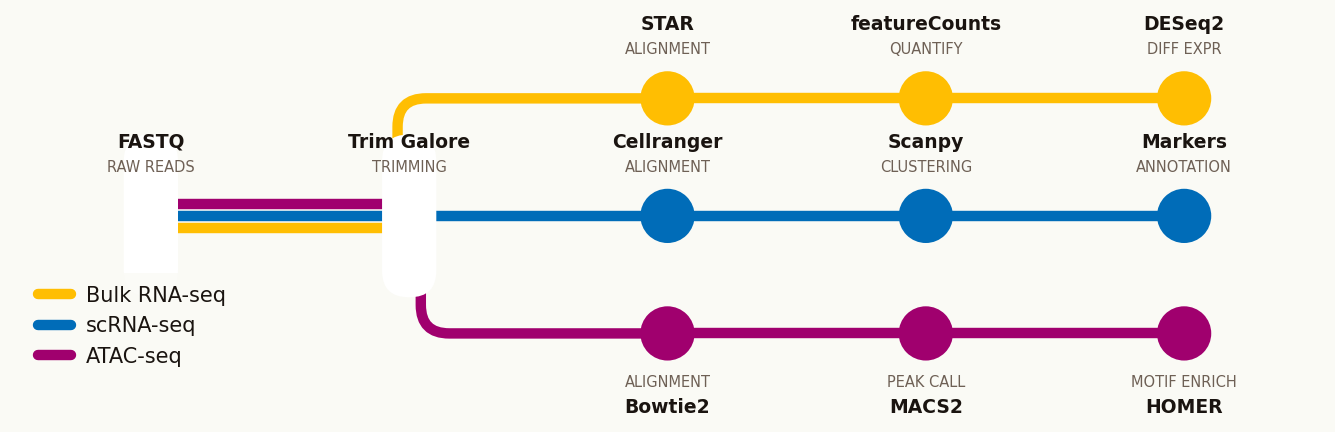
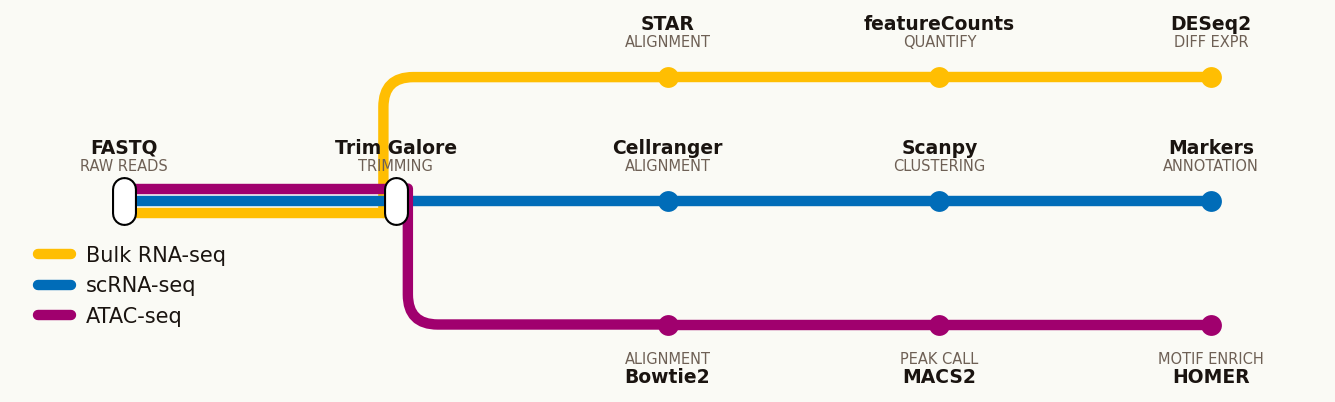
Update README and all graphics; remove Tokyo and Hong Kong sections
- Remove Tokyo and Hong Kong theme entries from README
- Re-render all theme and layout images with smaller stations and tighter labels

diff --git a/README.md b/README.md
@@ -142,22 +142,6 @@ d.line("ATAC-seq",     c3, [...])
 
 ---
 
-**`"tokyo"`** — Tokyo Metro + Toei. White background, dark navy labels, vivid high-contrast colours (Ginza orange, Marunouchi red, Tozai cyan).
-
-<p align="center"><img src="graphics/theme_tokyo.png" width="100%"/></p>
-
-```python
-from metroplot.themes import PALETTES
-
-d = Diagram(theme="tokyo", line_width=5, corner_radius=0.20, legend_loc="lower left")
-c1, c2, c3 = PALETTES["tokyo"][:3]    # Ginza orange · Marunouchi red · Tozai cyan
-d.line("Bulk RNA-seq", c1, [...])
-d.line("scRNA-seq",    c2, [...])
-d.line("ATAC-seq",     c3, [...])
-```
-
----
-
 **`"nyc"`** — NYC Subway (MTA). White background, pure black labels, bold primaries with maximum contrast. Minimal corner rounding matches the map's sharp geometry.
 
 <p align="center"><img src="graphics/theme_nyc.png" width="100%"/></p>
@@ -199,22 +183,6 @@ from metroplot.themes import PALETTES
 
 d = Diagram(theme="berlin", line_width=5, corner_radius=0.18, legend_loc="lower left")
 c1, c2, c3 = PALETTES["berlin"][:3]   # U2 red · U7 blue · U6 purple
-d.line("Bulk RNA-seq", c1, [...])
-d.line("scRNA-seq",    c2, [...])
-d.line("ATAC-seq",     c3, [...])
-```
-
----
-
-**`"hongkong"`** — Hong Kong MTR. Crisp white background, corporate navy labels. Clean and high-contrast.
-
-<p align="center"><img src="graphics/theme_hongkong.png" width="100%"/></p>
-
-```python
-from metroplot.themes import PALETTES
-
-d = Diagram(theme="hongkong", line_width=5, corner_radius=0.20, legend_loc="lower left")
-c1, c2, c3 = PALETTES["hongkong"][:3] # Island blue · Tsuen Wan red · Kwun Tong green
 d.line("Bulk RNA-seq", c1, [...])
 d.line("scRNA-seq",    c2, [...])
 d.line("ATAC-seq",     c3, [...])
